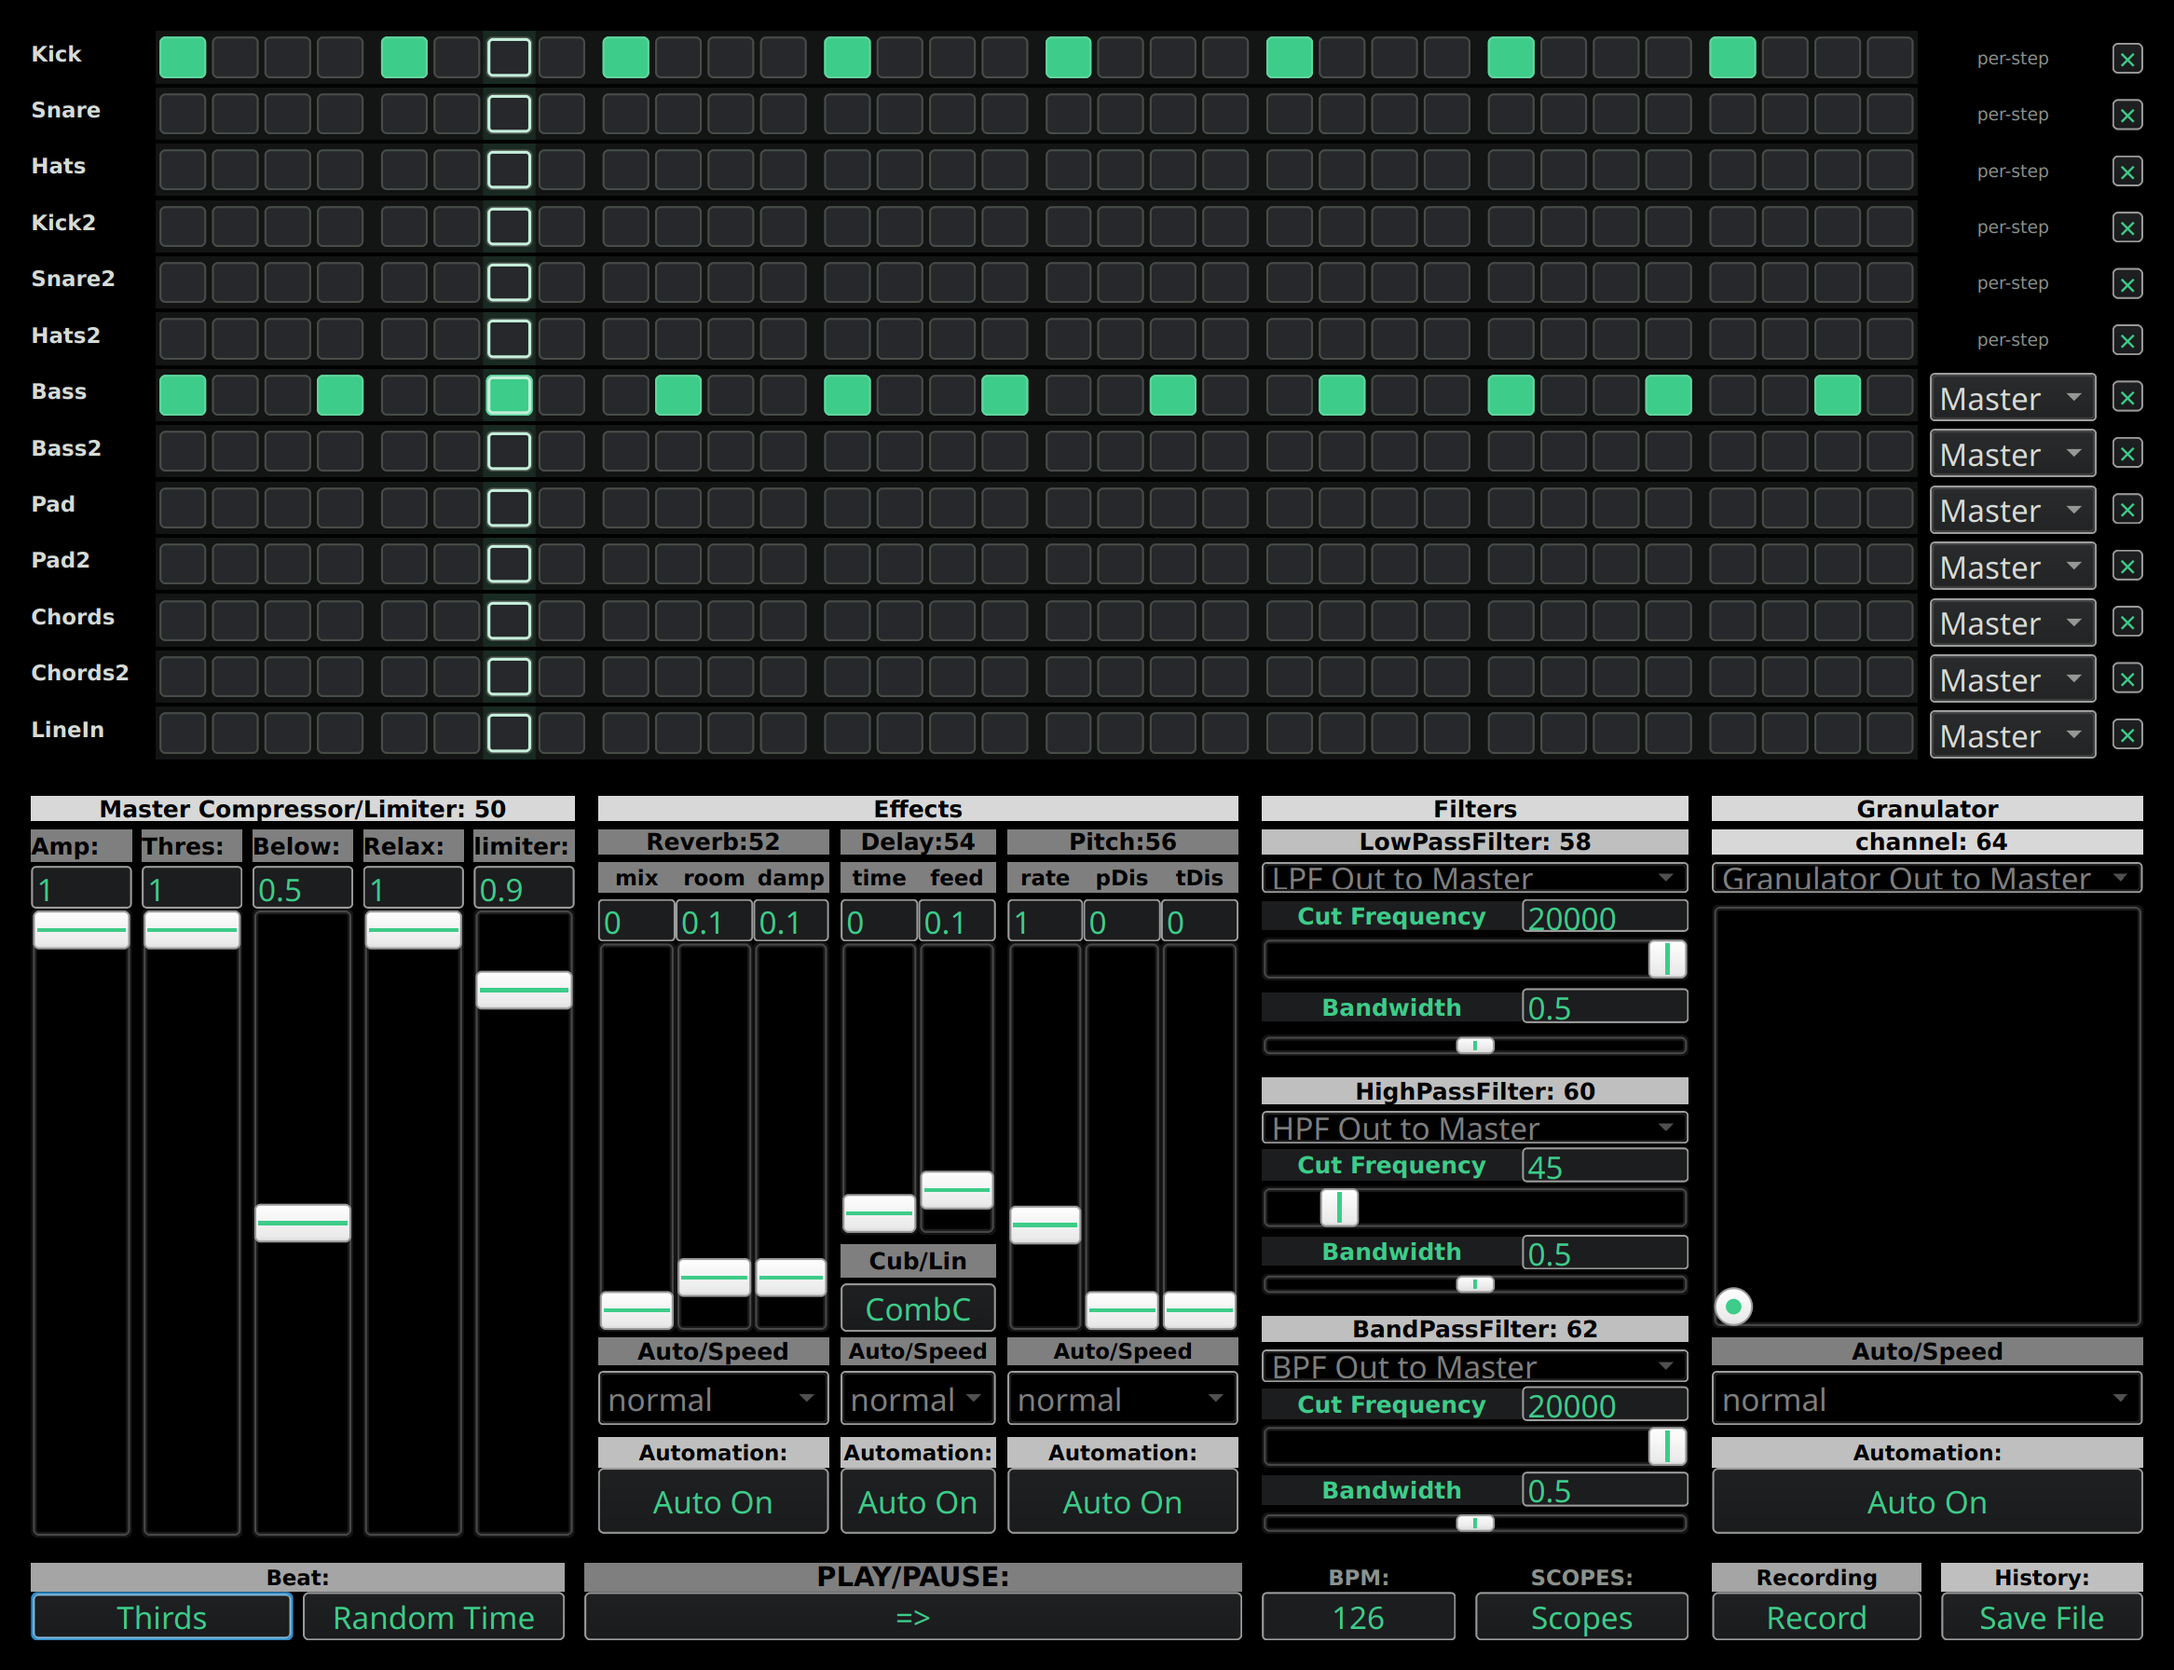
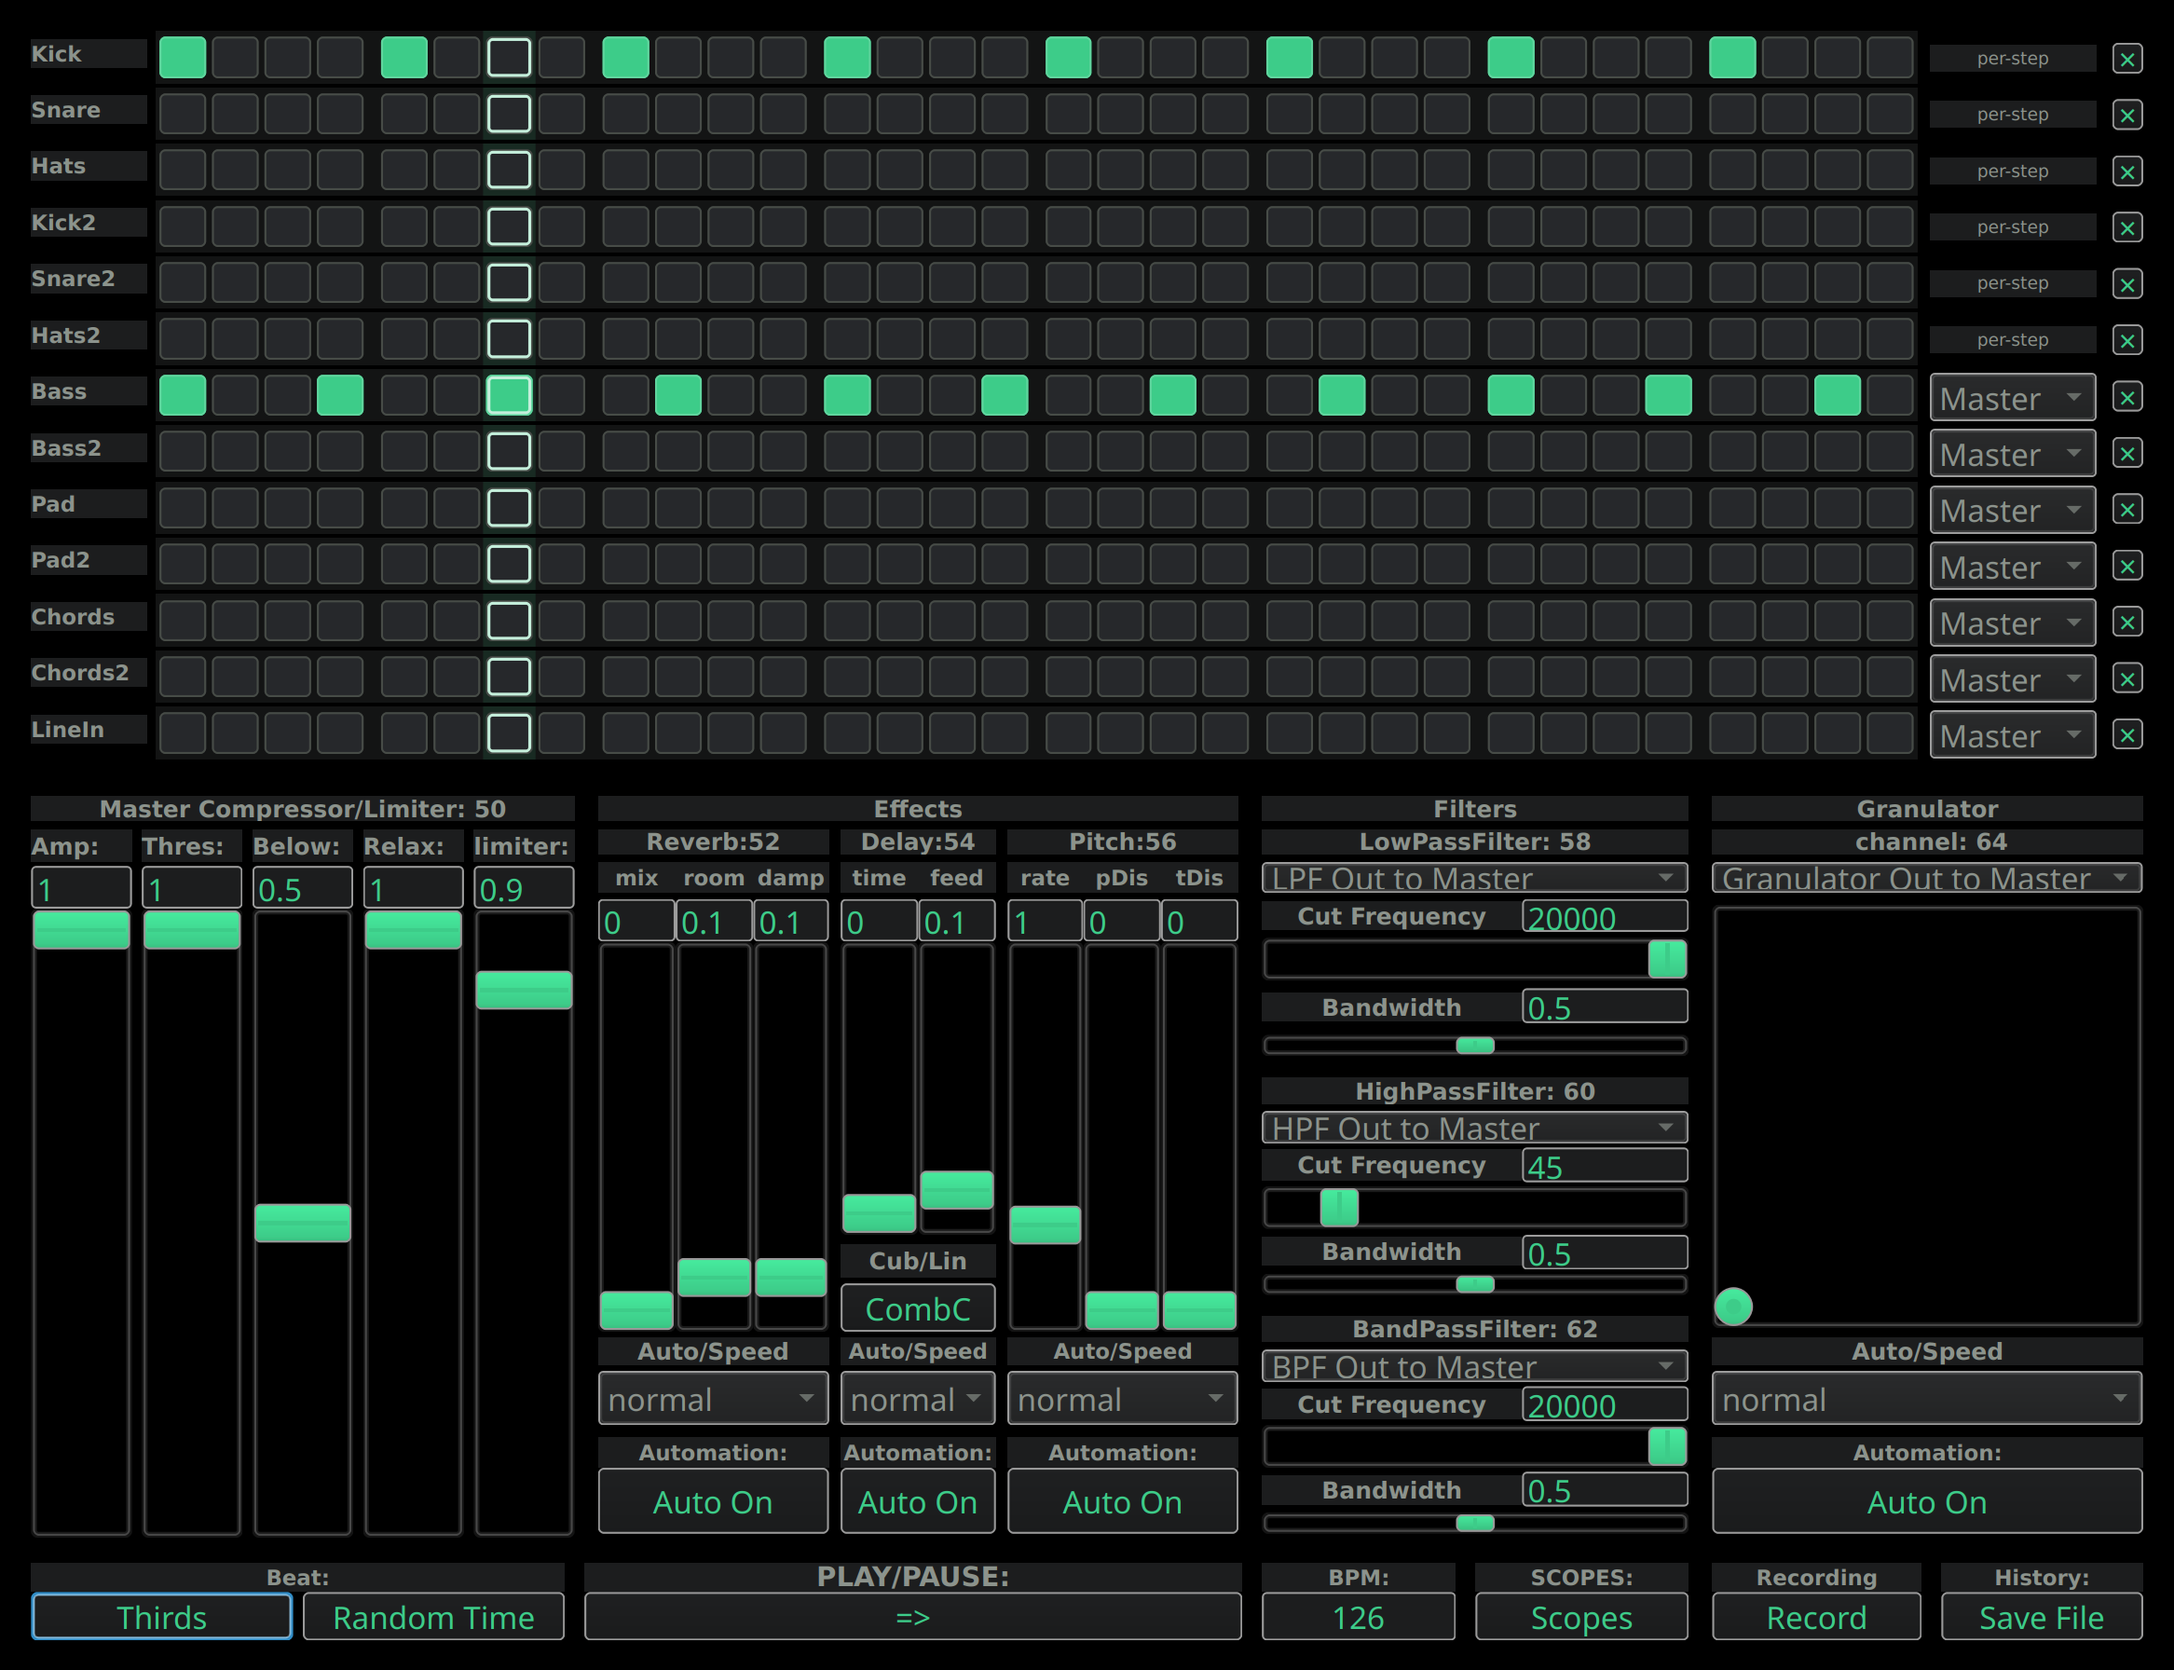
v2.3.5     - True resizable app window     - Apply global color to SLider handles and knobs     - Bugfix: Scopes window         - Scope overlaps FreqScope when resized         - Scope channel 1 not colored     - Unify tag name colors

diff --git a/dev-docs/08-paso5-gui-vista.md b/dev-docs/08-paso5-gui-vista.md
@@ -221,15 +221,18 @@ columna mientras tanto: mute/solo por pista o probabilidad.
 
 ## 11. Tema global, botones unificados y transporte
 
-* `CaosBoxGUI.themeLegacy(~cbox_w.asView)` recorre la vista una vez y guarda **69
-  entradas**: 19 NumberBox, 24 botones, 6 etiquetas verdes y 20 sliders/Slider2D.
+* `CaosBoxGUI.themeLegacy(~cbox_w.asView)` recorre la vista una vez y guarda **142
+  entradas**: 19 NumberBox, 24 botones, 64 etiquetas, 15 popups y 20 sliders/Slider2D.
 * **Botones unificados** (play incluido): en estado inactivo `state 0` usan fondo
   `panel` y texto `accent`; en estado activo (`state > 0`) fondo `accent` y texto
   **negro**. Se conservan labels y el valor del botón.
 * **NumberBox**: fondo `panel`, texto `accent`, edición `accentText`.
-* **Etiquetas verdes**: fondo `panel`, texto `accent`.
+* **Etiquetas y popups**: todas las `StaticText` y los `PopUpMenu` usan fondo `panel`
+  y texto `muted`; ya no queda texto blanco en la ventana y la diferencia entre
+  títulos y etiquetas es de bajo contraste.
 * **Sliders y granulador**: `knobColor_(accent)` en todos los `Slider` y en el
-  `Slider2D` del granulador; el fondo/groove queda como estaba.
+  `Slider2D` del granulador; el fondo/groove queda como estaba. El handle completo
+  se colorea con `QPalette.button_(accent)` (el `knobColor` de SC sólo pinta la marca).
 * **Transporte alineado a columnas**: BPM `650..750` (100 px) y Scopes `760..870`
   (110 px) cubren la columna de filtros `650..870`; Record `882..990` (108) y
   History `1000..1104` (104) cubren la del granulador `882..1104`. El BPM tiene
@@ -238,14 +241,30 @@ columna mientras tanto: mute/solo por pista o probabilidad.
   activo el fondo es accent y el texto negro; `\red` repinta todo y el BPM sigue
   visible. Capturas `gui-5b.png`, `gui-5b-active.png` y `gui-5b-red.png`.
 
-## 12. Siguiente
+## 12. 5b-3: resize fluido y scopes (v2.3.5)
 
-1. **5b-3 (v2.3.4)**: `resizable` + `onResize` (filas, paneles y transporte).
-2. **Flam por step** (TODO después de la GUI): marca en la rejilla + segundo disparo.
-3. **5c**: rejilla con interacción avanzada (mute/solo, acentos, scroll, teclado).
-4. Retirar los alias `~cbox_tracks`/`~cbox_instruments` en 3.0.0.
+* Ventana **resizable** (`Window.new(..., true)`). `CaosBoxGUI.makeResizable` guarda
+  los rects de las 1120×860 de diseño y `prFluidResize` escala posición y tamaño de
+  todos los hijos con la ventana. Los fonts no escalan; el layout mantiene
+  proporciones.
+* Probado a 1400×1000 (grid `100,221,1135,31`) y 1000×760 (grid `71,168,811,24`),
+  sin solapes.
+* **Scopes**: se abandonó `resize_(5)` y ahora la ventana tiene
+  `prLayoutAnalyzers` explícito (labels + FFT + osciloscopio) en `onResize`.
+  Verificado: de 600×430 a 900×600, FFT `8,26,884,266` y scope `8,318,884,266`.
+  Los dos canales del osciloscopio usan `waveColors_([accent, accent])`.
+* **Sliders**: `knobColor` de SC sólo pinta la marca; para colorear el handle
+  completo se usa también `QPalette.button_(accent)`. Los 20 sliders y el `Slider2D`
+  del granulador llevan el acento.
+* `CaosBox.version = "2.3.5"`.
 
-## 13. Verificación actual
+## 13. Siguiente
+
+1. **Flam por step** (TODO): marca en la rejilla + segundo disparo.
+2. **5c**: rejilla con interacción avanzada (mute/solo, acentos, scroll, teclado).
+3. Retirar los alias `~cbox_tracks`/`~cbox_instruments` en 3.0.0.
+
+## 14. Verificación actual
 
 * Clases compilan; 14 `.scd` parsean; suite **286 aserciones, 0 fallos**.
 * Render headless de la GUI real (sin servidor): 13 rejillas registradas, 7 popups de
@@ -260,9 +279,13 @@ columna mientras tanto: mute/solo por pista o probabilidad.
   `DevTest/img/gui-5b.png` (verde) y `DevTest/img/gui-5b-red.png` (`\red`), 1120×860
   a 2x. Gaps de 12 px entre columnas y 16 px de margen, con solo el borde de
   antialias tocando el gap.
-* Tema: **69 entradas** (19 NumberBox, 24 botones, 6 etiquetas, 20 sliders). Sin
-  verde puro en estado inactivo; con botones activos el fondo es accent y el texto
-  negro; `\red` repinta todo. BPM 100×25 con número accent.
+* Tema: **142 entradas** (19 NumberBox, 24 botones, 64 etiquetas, 15 popups,
+  20 sliders). Sin texto blanco en etiquetas ni verde puro en estado inactivo; con
+  botones activos el fondo es accent y el texto negro; `\red` repinta todo. BPM
+  100×25 con número accent y scope con los dos canales en accent.
 * Analizadores: la ventana se construye/cierra headless (600x430) y los `waveColors`
   de FFT y osciloscopio toman el acento (probado con `\orange`).
+* Resize 5b: main window 1120×860→1400×1000→1000×760 con grid/faders/transporte
+  escalados; analyzer 600×430→900×600 con FFT y scope reposicionados sin cortarse.
+  Captura `DevTest/img/gui-5b-resized.png`.
 * SynthDef del granulador estéreo se construye headless sin errores.

diff --git a/CHANGELOG.md b/CHANGELOG.md
@@ -3,15 +3,23 @@
 
 ---
 ### TODOs:
-- Instrumentos melodicos deben recibir array en ruteo
-- Flam para percusiones
-    - Por step, no por pista: shift-click (o click derecho) marca el step con un puntito, y el secuenciador dispara la función dos veces con un retardo corto (por ejemplo 1/64 a 1/32 de beat)
-- Mute/solo por pista: dos botones chicos, muy útil en vivo y no compite con el ruteo. Requiere un muted en el modelo y que el secuenciador saltee el trigger (en melódicos conviene seguir avanzando la línea).
-- Probabilidad (100/75/50/25) por pista: variación sin tocar el patrón; también es feature.
-- Fill/randomizar la pista: generativo, destructivo, para un botón de performance
+- Melodic instruments should support an array in their routing (Such as persussion instruments).
+- "Flam" for percussion:
+    - Applied per step, not per track: shift-click (or right-click) marks the step with a small dot; the sequencer then triggers the function twice with a short delay (e.g., 1/64 to 1/32 of a beat).
+- Mute/solo per track: two small buttons—very useful for live performance, and they don't interfere with routing. This requires a "muted" state in the model, where the sequencer skips the trigger (for melodic parts, it’s better to keep the sequence advancing).
+- Probability (100/75/50/25) per track: allows for variation without altering the pattern itself—a great feature.
+- Fill/randomize track: generative and destructive—ideal for a performance button.
 ---
 
 # Changelog
+
+- ### v2.3.5
+    - True resizable app window
+    - Apply global color to SLider handles and knobs
+    - Bugfix: Scopes window
+        - Scope overlaps FreqScope when resized
+        - Scope channel 1 not colored
+    - Unify tag name colors
 
 - ### v2.3.4
     - GUI improvements

diff --git a/README.md b/README.md
@@ -46,4 +46,4 @@ Platform.userExtensionDir
 - CaosBox and CaosPercLib: [Carlos Hasbun](https://github.com/josecaos)
 - v2.x refactor and GUI: pair-coded with [**DeepSeek**](https://www.deepseek.com/) (DeepSeek Harness agent, model deepseek-v4-flash)
 - All architecture, design, and final code from [josecaos](https://josecaos.xyz)
-- Thanks to [WAD](https://wad.mx) for the endorsment of the project and for the support
+- Thanks to [WAD Agency](https://wad.mx) for the endorsment and project's support
